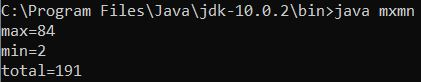
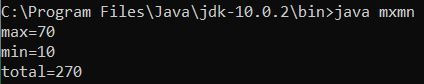
Add files via upload

diff --git a/HW_3_java/mxmn.java b/HW_3_java/mxmn.java
@@ -3,7 +3,7 @@ public class mxmn
 	public static void main(String non[]) 
 	{
 
-		int nn[]={5,10,15,20,55,2,84};
+		int nn[]={10,10,30,40,50,60,70};
 		int max=0;
 		int min=999;
 		int total=0;
